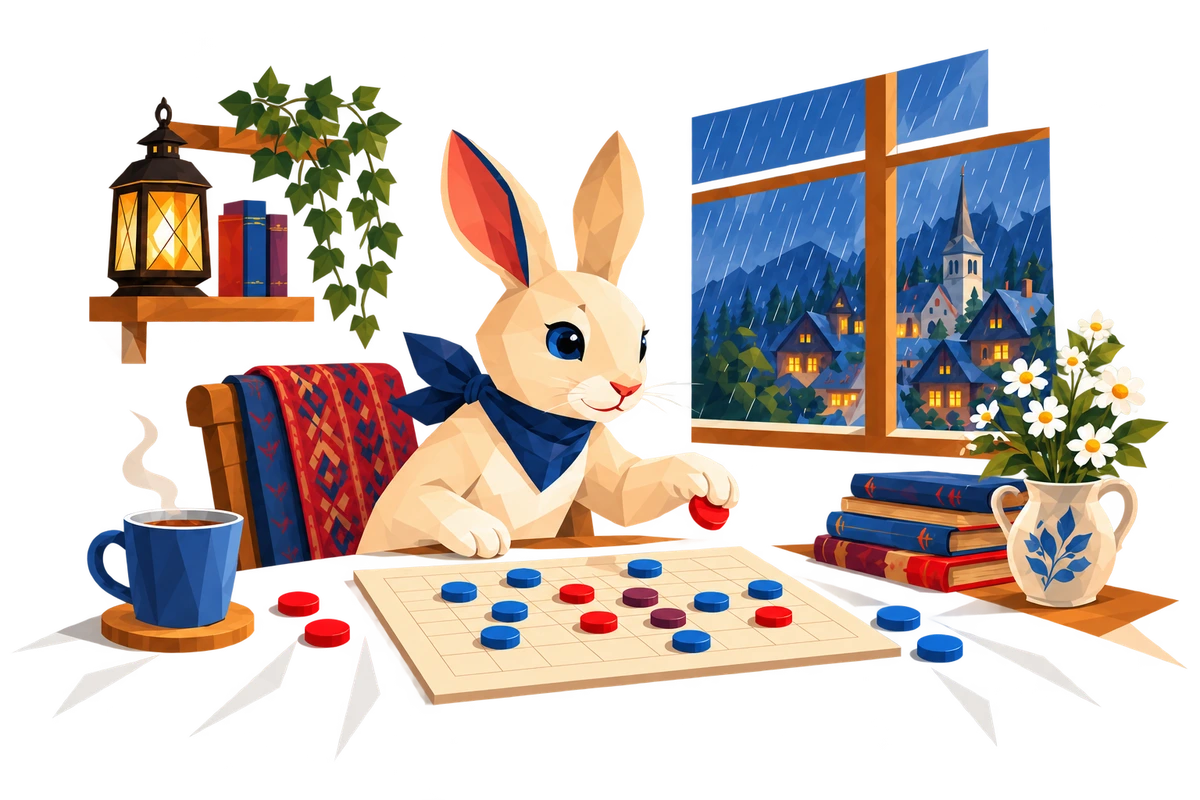
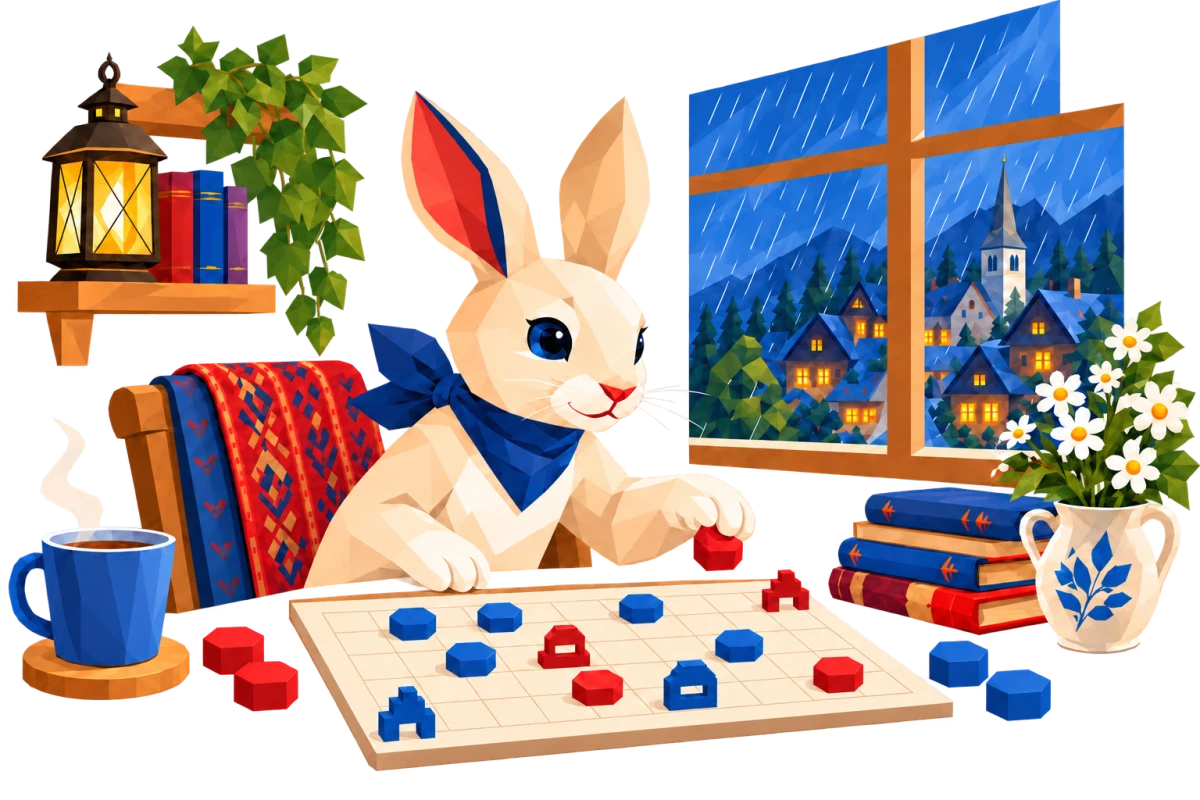
Integrate story artwork and consolidate the UX feedback audit

diff --git a/apps/web/shell/opponent-stories.js b/apps/web/shell/opponent-stories.js
@@ -5,7 +5,7 @@ export const OPPONENT_STORIES = Object.freeze({
   horus: { name: "Horus", difficulty: "Hard", bit: 4, story: "Horus learned to play in a watchtower, studying matches in the courtyard below. He eventually came down to explain what everyone was doing wrong. Unfortunately, he was usually right.", scenes: [["horus-1-watchtower", "Horus observes the courtyard from a watchtower."], ["horus-2-studying", "Horus studies a match in the courtyard below."], ["horus-3-opinion", "Horus offers his opinion at the game table."]] },
 });
 
-export const FRIEND_STORY = {name:"Friend",difficulty:"A rivalry of your own",story:"Every good rivalry starts with an invitation. Bring someone who knows your tricks, or someone who thinks they do. Settle in, trade a few surprises, and leave room for the inevitable rematch.",scenes:[["friend-introduction","Two friends settle into a friendly red-versus-blue match."]],playLabel:"Start a friend game"};
+export const FRIEND_STORY = {name:"Friend",difficulty:"A rivalry of your own",story:"Every good rivalry starts with an invitation. Bring someone who knows your tricks, or someone who thinks they do. Settle in, trade a few surprises, and leave room for the inevitable rematch.",scenes:[["friend-introduction","Red and blue sleeved hands make room for a friend at a Righelt board, with mugs and inviting place settings."]],playLabel:"Start a friend game"};
 
 export const createStoryCarousel = ({ reducedMotion = false, now = () => performance.now(), setTimer = setTimeout, clearTimer = clearTimeout, onChange = () => {} } = {}) => {
   let index = 0, paused = reducedMotion, hidden = false, timer = null, remaining = 3000, started = 0;

diff --git a/apps/web/assets/opponents/README.md b/apps/web/assets/opponents/README.md
@@ -1,31 +1,21 @@
-# Opponent story artwork
+# Righelt story artwork
 
-T-087 pass-one assets, generated with the built-in image-generation tool on 2026-10-03. These are narrative illustrations, not diagrams of legal board positions. No generated text or interface is used.
+T-087 narrative illustrations generated with the built-in image-generation tool, revised October 6, 2026. Production WebP files are self-contained. `manifest.json` records scene IDs, descriptive text, dimensions, byte sizes, and generation provenance.
 
-`manifest.json` records the three scenes for each opponent, descriptive alt text, intrinsic dimensions, encoded byte sizes and source generation IDs. The original tool outputs are retained by the generation service/local image history. The production deliverables here are self-contained WebP files; runtime must not reference that local history.
+## Current visual contract
 
-## Art direction and prompts
+Scenes fill their card generously. Plain ivory walls, linen, paving and negative space continue the card surface (#fffdf6). Use crisp selective boundaries, never fuzzy vignettes, feathered fades, halos, or CSS masks to hide a rectangular image. The scene scale follows available width and a 3:2 aspect ratio. The shared modal provides scrolling when needed rather than shrinking the art.
 
-All prompts specify standalone 3:2 illustrations, angular geometric painted facets, consistent character identities, crisp selective edges, and ivory walls/tablecloths/parapets as actual scene surfaces. They exclude fuzzy vignettes, feathering, gradient fades, text, UI and logos. Existing story drafts and the accepted integrated-art modal in `righelt-backlog/backlog/assets/ppa-ux/` supplied composition and character references. The approved modal supplied art treatment only, never its superseded background wordmark.
+Babs retains the rainy window, shelf, lantern, books and chair across discovery, rematch and research. Tau retains his golden shell and garden irrigation setting. Horus retains his watchtower and courtyard setting. Each opponent has three scenes and the approved fixed story.
 
-The scene-specific prompt set was:
+Game imagery uses faceted cut-corner units, stepped commanders with horizontal windows, and stepped supply arches. Supply markers occupy corner squares, never interior squares. These are narrative scenes, not legal-position diagrams or substitutes for the actual board renderer.
 
-1. Babs discovers a board during a rainstorm: cream rabbit, navy neckerchief, curious joyful expression, rainy village window, lantern, trailing plant, red and blue round game pieces; replace the old vignette with an ivory wall and tablecloth.
-2. Babs eagerly invites a rematch with paws spread over a reset board, cheerful sunny room and score notebooks; preserve the first scene's identity and framing.
-3. Babs studies an impressive collection of research notebooks, pencil in paw, diagrams without readable text, cheerfully determined after a lost game.
-4. Tau, a friendly green tortoise with a golden shell, waters village garden beds beside stone irrigation channels. Ivory garden wall and paving replace the old vignette.
-5. Tau considers a board beside connected irrigation channels, illustrating the lesson of supply lines; clean ivory tablecloth fills the foreground.
-6. Tau carefully considers a move while Babs rests her chin on her paws in amused patience; keep both identities consistent.
-7. Horus, a slate-blue falcon with cream chest and golden eye, watches courtyard games from an ivory watchtower parapet.
-8. Horus leans forward to study the game below, with a notebook of abstract red and blue diagrams; a closer viewpoint distinguishes this from the first scene.
-9. Horus comes down to suggest a move to Babs and Tau, who listen with amused surprise; confident friendly rivalry, never cruelty.
+Friend is represented by hands only. The compact Start illustration retains the red/blue hand treatment. The larger introduction shows an invitation through an open palm, board, mugs and place settings. No full human figures or animal characters appear in Friend artwork. Animals remain exclusive to computer opponents. The earlier chair invitation is a preserved exploratory direction, not a runtime asset.
 
-Images were visually checked against these scenes and encoded with `cwebp -q 85 -resize 960 0`. No retouching, overlays or synthetic background fades were applied. All nine are 960×640 and together total 874,288 bytes. The UI should load only the selected opponent's first image eagerly, then defer subsequent scenes; artwork failure must leave the story and controls usable.
+## Final prompt set and processing
 
-The consuming story modal and its account/model integration are delivered separately. Adding these assets does not claim that computer-play readiness or first-encounter persistence is implemented.
+The built-in edits preserve character identities, story actions and composition while replacing fuzzy boundaries with crisp architectural or garden edges and continuous ivory. Board edits reference the actual `apps/web/piece-symbols.js` shapes and explicitly require corner supply arches. Babs's wooden tabletop was replaced with ivory linen so its bottom edge meets the card naturally. Friend expands the approved faceted red/blue hands into a tabletop invitation, using the same piece references.
 
-## Integrated artwork revision, 2026-10-04
+The final generated files were inspected before encoding. Only resizing and WebP encoding followed generation (`cwebp -q 90 -resize 1200 800`), with no synthetic fades or retouching. Tau's gardening scene has no gameplay and retains its clean transparent negative space. Friend also uses clean transparency. All revised scenes use clean transparent negative space so the actual card texture continues between crisp scene elements. No blend mode approximates the surface color. Inspect every future revision in the actual component at mobile and desktop sizes, including transitions, before accepting it.
 
-Supersedes the original opaque-background encoding above. All nine scenes now use true transparent negative space, preserving opaque character/object colors and crisp, intentional contours. The surrounding component supplies its exact surface color (#fffdf6 normally), including on hover. No CSS masks or feathered fades disguise rectangular image edges. This integrated treatment is required for future narrative artwork too.
-
-Tau and Horus were edited from the prior illustrations: preserve character identity, poses and story action; remove continuous landscape, plain wall, tablecloth and sky backgrounds; retain a few isolated garden/irrigation or watchtower/courtyard details; use roughly 40% transparent negative space around all edges. Babs uses the approved rainy discovery, eager rematch and notebook research vignettes, with the same transparency treatment. Production files are 1200×800 WebP, compressed with Sharp at quality 90 (Babs 92); current byte sizes and generation provenance are in manifest.json. Only compression/resizing followed tool generation.
+Load the first image eagerly and defer subsequent scenes. A failed image must leave the story and controls usable. Artwork does not establish trained-computer readiness.

diff --git a/docs/UX_FEEDBACK_AUDIT.md b/docs/UX_FEEDBACK_AUDIT.md
@@ -1,0 +1,37 @@
+# First-pass UX feedback audit
+
+October 6, 2026. Canonical PR: #120. This records the latest decision where earlier experiments conflict. Behavioral acceptance still requires the current combined test report and CI.
+
+| Feedback family | Current implementation and regression evidence |
+|---|---|
+| Preserve existing principles and guest play | Original board geometry and desktop/touch rules retained. Guest and account browser suites run separately. Login #112 is already merged. |
+| Brand and visual system | Selected logo retained; Manrope; shared cut-stone surfaces, four clipped corners, bevels, restrained depth, affiliation-aware actions and recognizable branded icons. |
+| Background grid | Logo-aligned grid, stronger top-left and bottom-right, quieter but present center, slow subtle motion, reduced-motion alternative. |
+| Home structure | Continue playing → Start → Other games, no empty Continue playing, natural scrolling, aligned cards, reserved metadata and existing pagination. Latest requested copy retained. |
+| Fixed surroundings during reload | Cached cards and actual heading nodes survive pagination/loading. Open flyouts persist while routes change underneath. Browser tests retain DOM references. |
+| Sections and Players hierarchy | Shared title weight and balanced insets. Emblem/name/presence form one group apart from seat label. Grey empty-state icons, no prohibition slash, compact presence, display name before username, inline profile details. |
+| Invitations | Combined Players and invite actions. Seat-colored player invite, purple viewer invite, pending invite indicator, Play both players last. Top invitation surface, aligned explanatory text, inline copy feedback. |
+| Pending approval and preview | One foreground pending status. Preview board loads but is strongly subdued and inert. Approval opens game. No duplicate joining or misleading watch-while-waiting copy. |
+| Overlay behavior | Shared viewport positioning, background scroll lock/restoration, preventScroll focus, outside-click dismissal except strict gates, one inset scroll viewport, persistent lightweight close control. |
+| Overlay content sizing | Width-led large scene, reachable content at zoom/short heights, scrollbars clear of clipped corners. No decorative overflow or bottom-action clipping. |
+| Flyouts and Account | Attached edge owns entry/exit direction across breakpoints. Account settings use branded flyout/fullscreen phone treatment. Sign-in and creation remain modal. |
+| Opponent stories | Three fixed stories, three scenes each, 3-second cycle, no hover pause, deliberate caret/keyboard stops cycling, reduced-motion manual control. Storybook turn direction corrected. |
+| First/reopened introductions | First visit remains explicit even when ready. Close creates no game. Computer-player entry reopens story without pausing match. Unavailable trained play remains disabled. |
+| Friend introduction | Original hands on Start, hands-only expanded tabletop invitation in overlay, one scene and explicit Start. No full human figures or animals. |
+| Artwork | Large integrated scenes, crisp boundaries, continuous card surface, no fuzzy fades. Babs room continuity restored. Righelt piece vocabulary and corner-only supply arches. Source provenance lives beside assets. |
+| Board surroundings | Thin top/bottom paired corner accents, only Board colored on game page, active color top/opponent bottom. Coordinate spacing corrected; quiet hover washes. |
+| Legend | Commander over command line, supply point over supply line, group strength to right. Selected/active ownership color, only actually visible paths/badges, readable dash patterns, smooth interrupted resizing. |
+| Commander windows | Opaque square-colored window masks lines/dots, including ghosts, while shared stack order preserves pushed underlays. Browser regressions cover both cases. |
+| Sound intent | Hover/focus-only actions silent. Deliberate selection/preview/cancel/move/capture/turn, history and paging have distinct cues. No rerender/ack duplication. |
+| Motion and sound | Paired entry/exit for overlays/flyouts, reversed history/page cues, quiet two-phase route swoosh follows cover/reveal easing with silent hold. Friend/self-play use same navigation. |
+| Background sound | Hidden ordinary actions silent. Genuine incoming opponent move reminders repeat every 30 seconds until refocus. Mute/navigation/account retirement cancel them. |
+| Confirmed outcomes | Immediate tactile move feedback does not imply confirmed victory. Confirmed terminal event emits result once, rejected optimistic result stays silent. |
+| Sound consistency | Perceived loudness balanced to wooden cues, explicit mute preserved, browser restrictions respected, sources end/disconnect. Current rules consolidated in UX principles. |
+| Results, rematch and tutorial | Results/rematch retain deliberate opponent/side choice. Placeholder tutorial bypassed; real lesson T-009, hosted teaching T-117, later board refinement T-118. |
+| Regression structure | Shared component defaults plus unit/integration tests and full browser workflows enforce these contracts. No screenshot-only readiness claims. |
+
+The independent review cleared the commander, sound confirmation, focus restoration, pending gate and pagination repairs. Its documentation contradictions were reconciled in `UX_PRINCIPLES.md`. Artwork inspection and the final combined report remain separate evidence.
+
+## Explicit limits
+
+The trained computer runtime is owned by its separate thread. Its unavailable state is not gameplay proof. Physical iPhone 13 mini / iOS 26.6.2 cellular performance remains unverified here. Publication and production account activation remain paused/separate. Later visual refinements belong to followup passes, not undocumented changes to these first-pass contracts.
